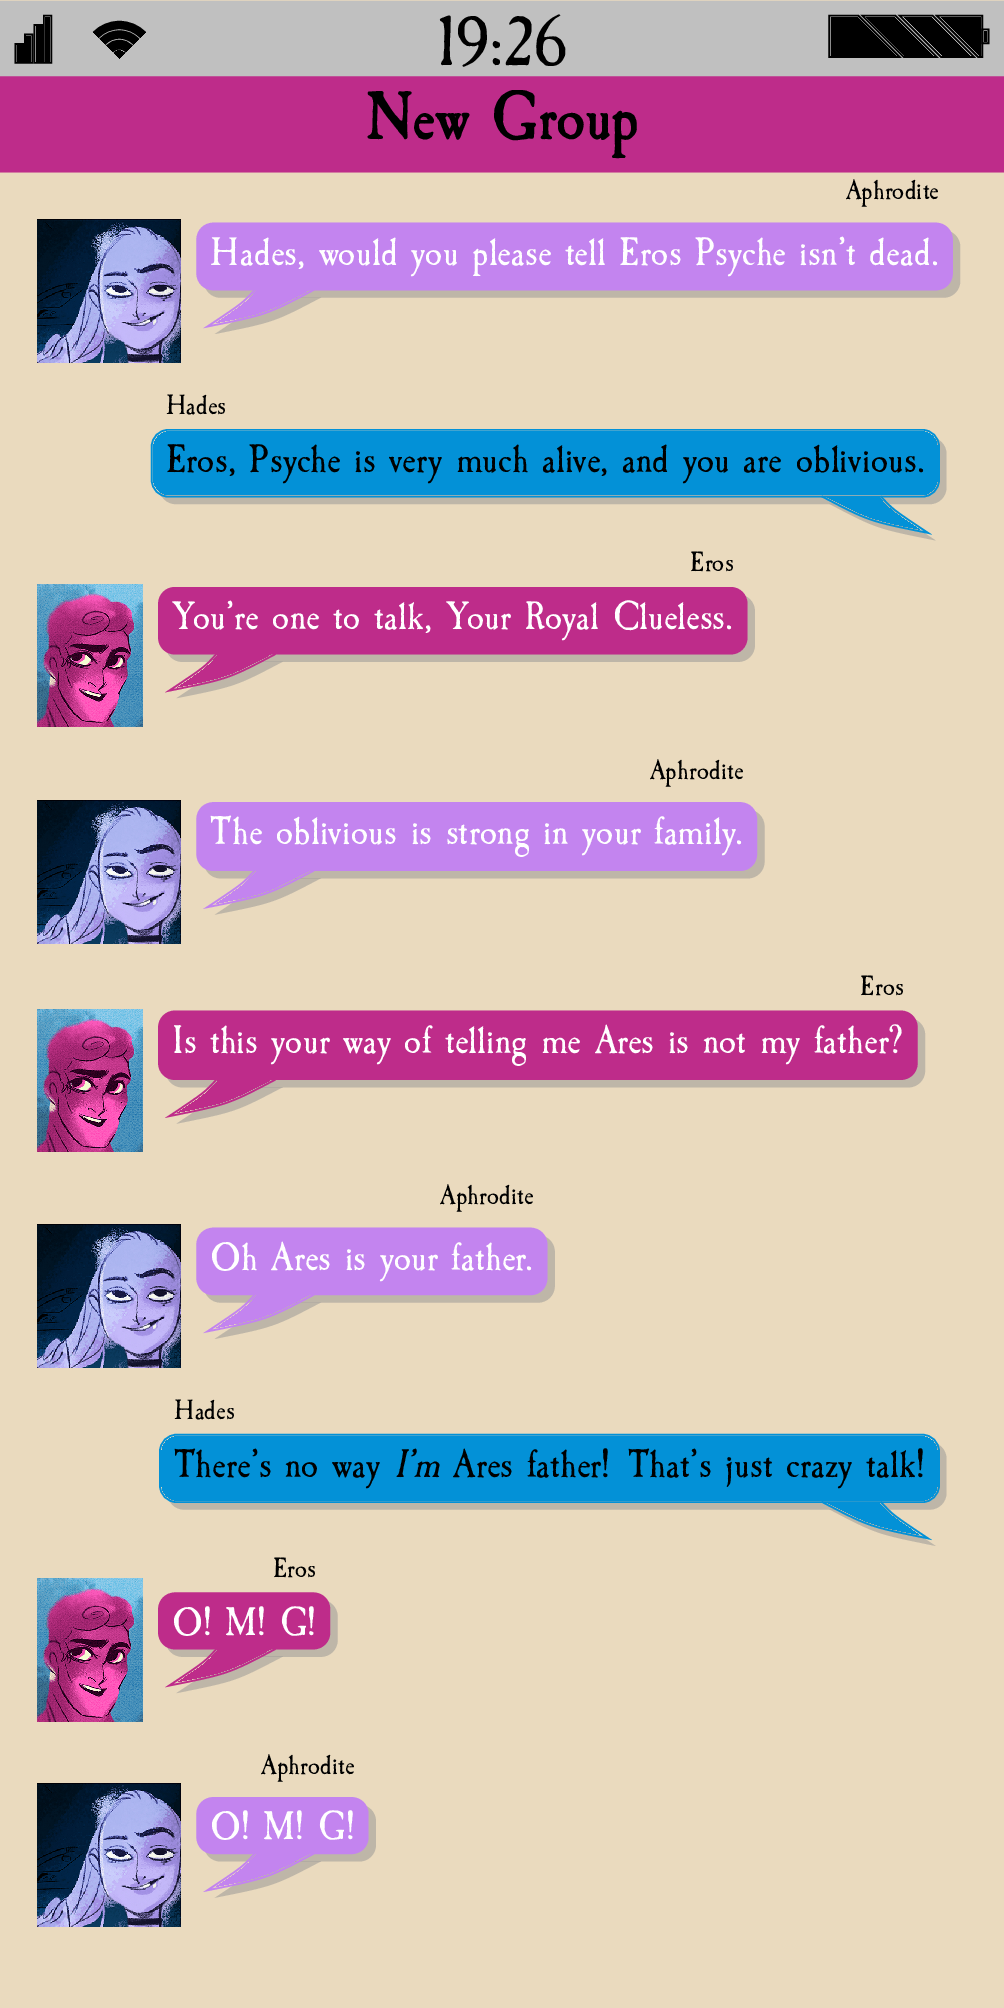
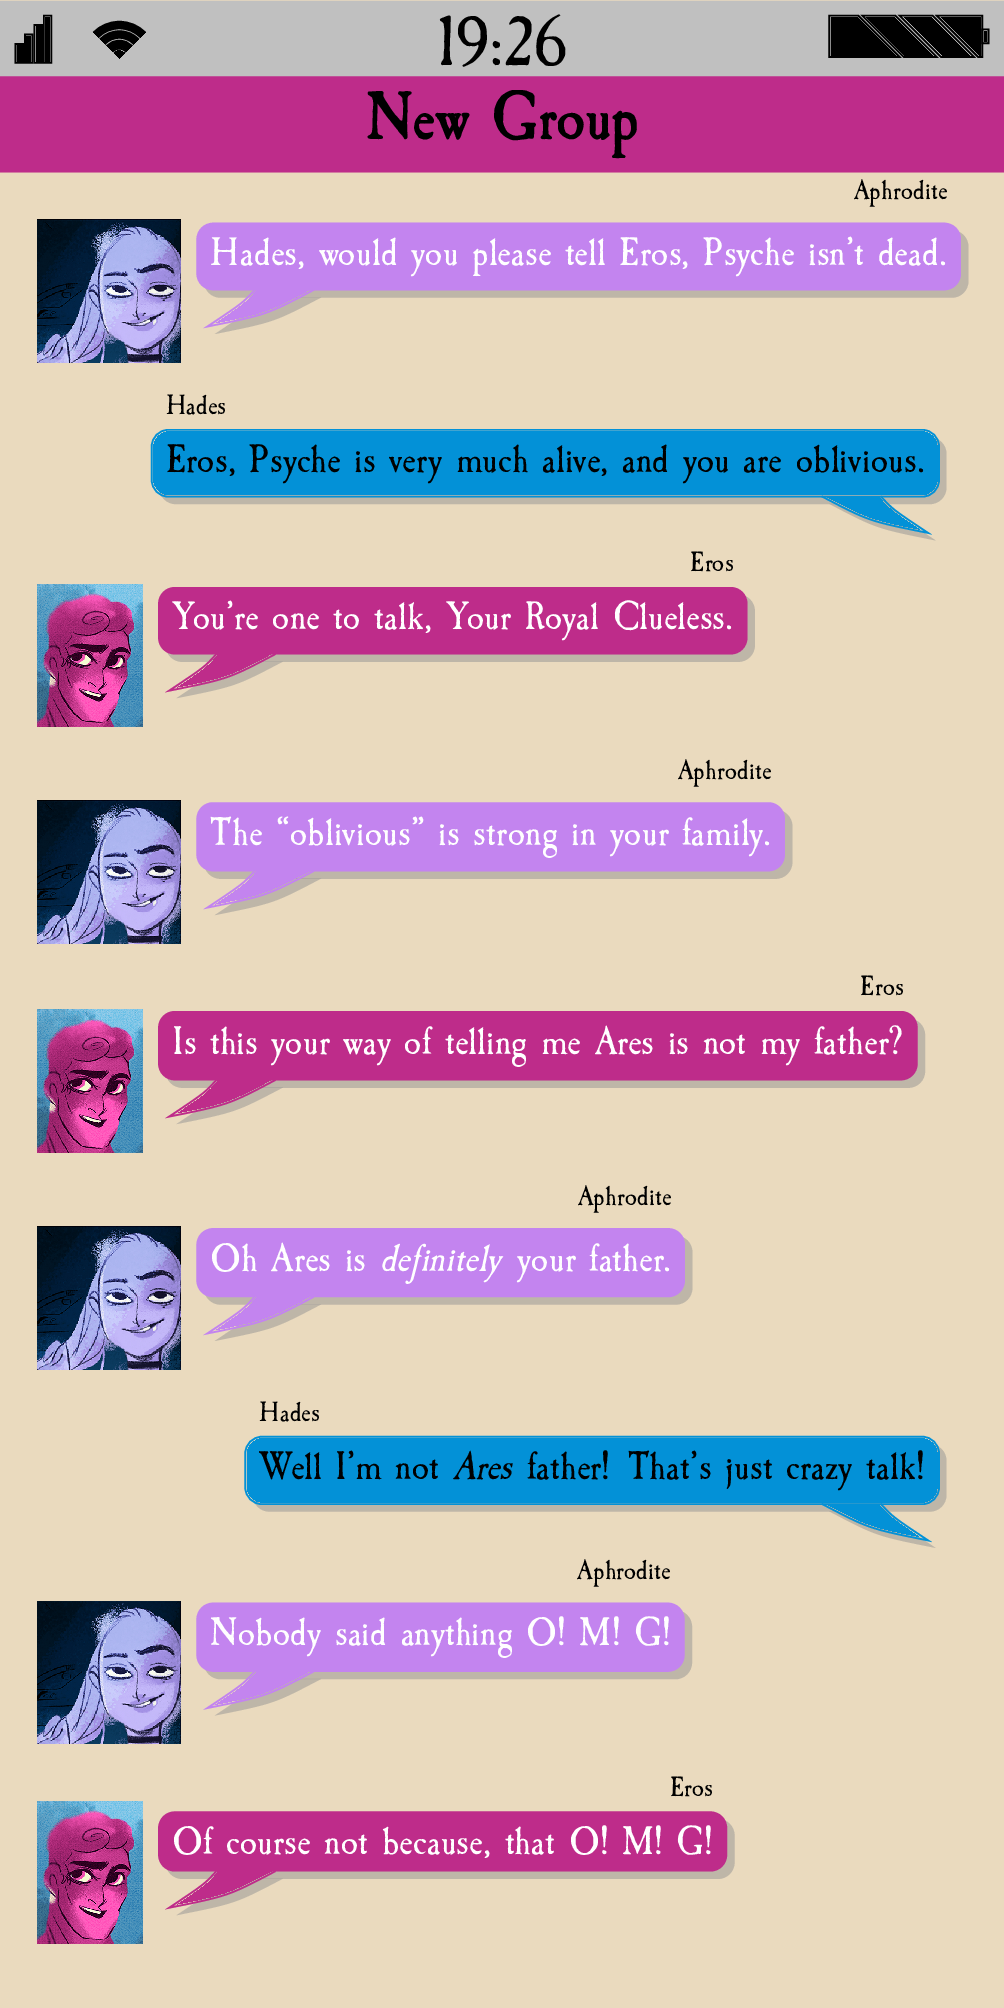
Added grandson

diff --git a/_posts/2019-12-29-How_Hades_cares_about_Persephone.md b/_posts/2019-12-29-How_Hades_cares_about_Persephone.md
@@ -10,4 +10,6 @@ date: 2019-12-29
 
 ![Persephone needs a phone book to be able to look Hades in the eye.](/assets/img/phonebooks.png) 
 
+
+
 I do not normally post text messages on Saturdays or Sundays, to allow space between my common fan content and actual releases. I was inspired by the tone of a few frames of the most recent FastPass Episode <93> to round out the year with something tender and special.

diff --git a/_posts/2019-12-30-Some_people_have_suspicious_similarites.md b/_posts/2019-12-30-Some_people_have_suspicious_similarites.md
@@ -6,9 +6,10 @@ categories: [text-messages]
 summary: Hades is a little to willing to answer a question nobody asked.
 author: Bobo Glaukon
 date: 2019-12-30
-published: false
 ---
 
 ![Hades reveals a little too much.](/assets/img/grandson.png)
+
+This is actually part 1/2. Part 2 comes tomorrow!
 
 
